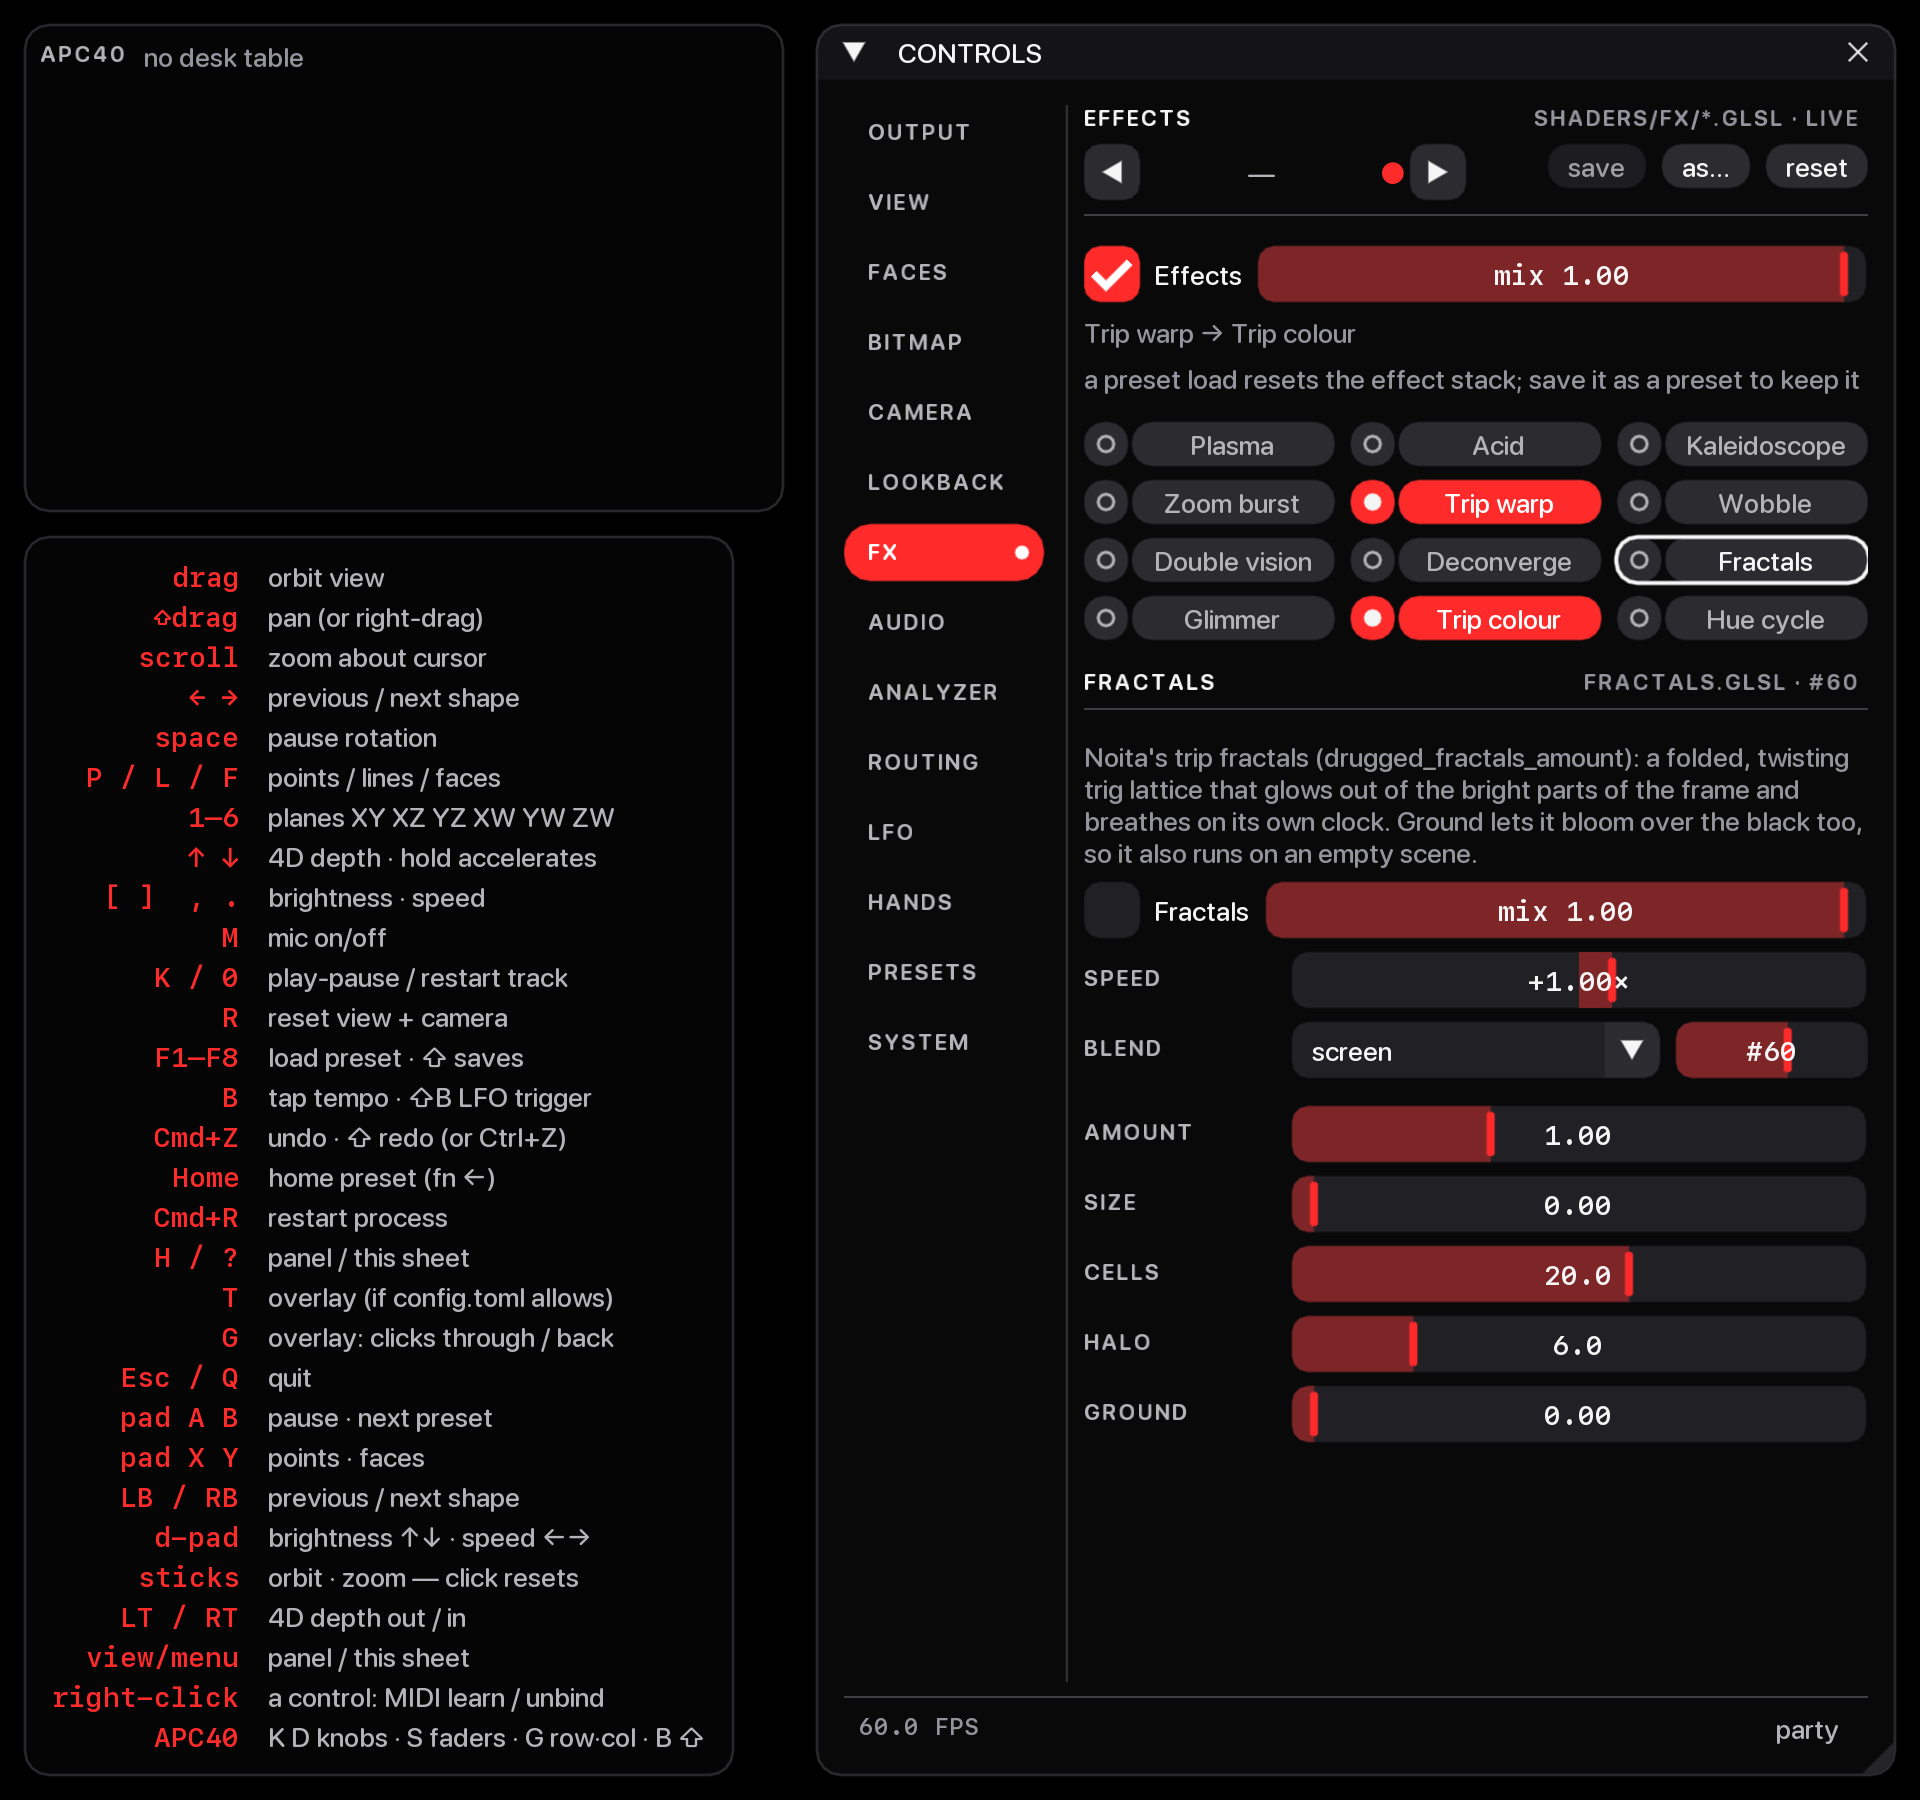
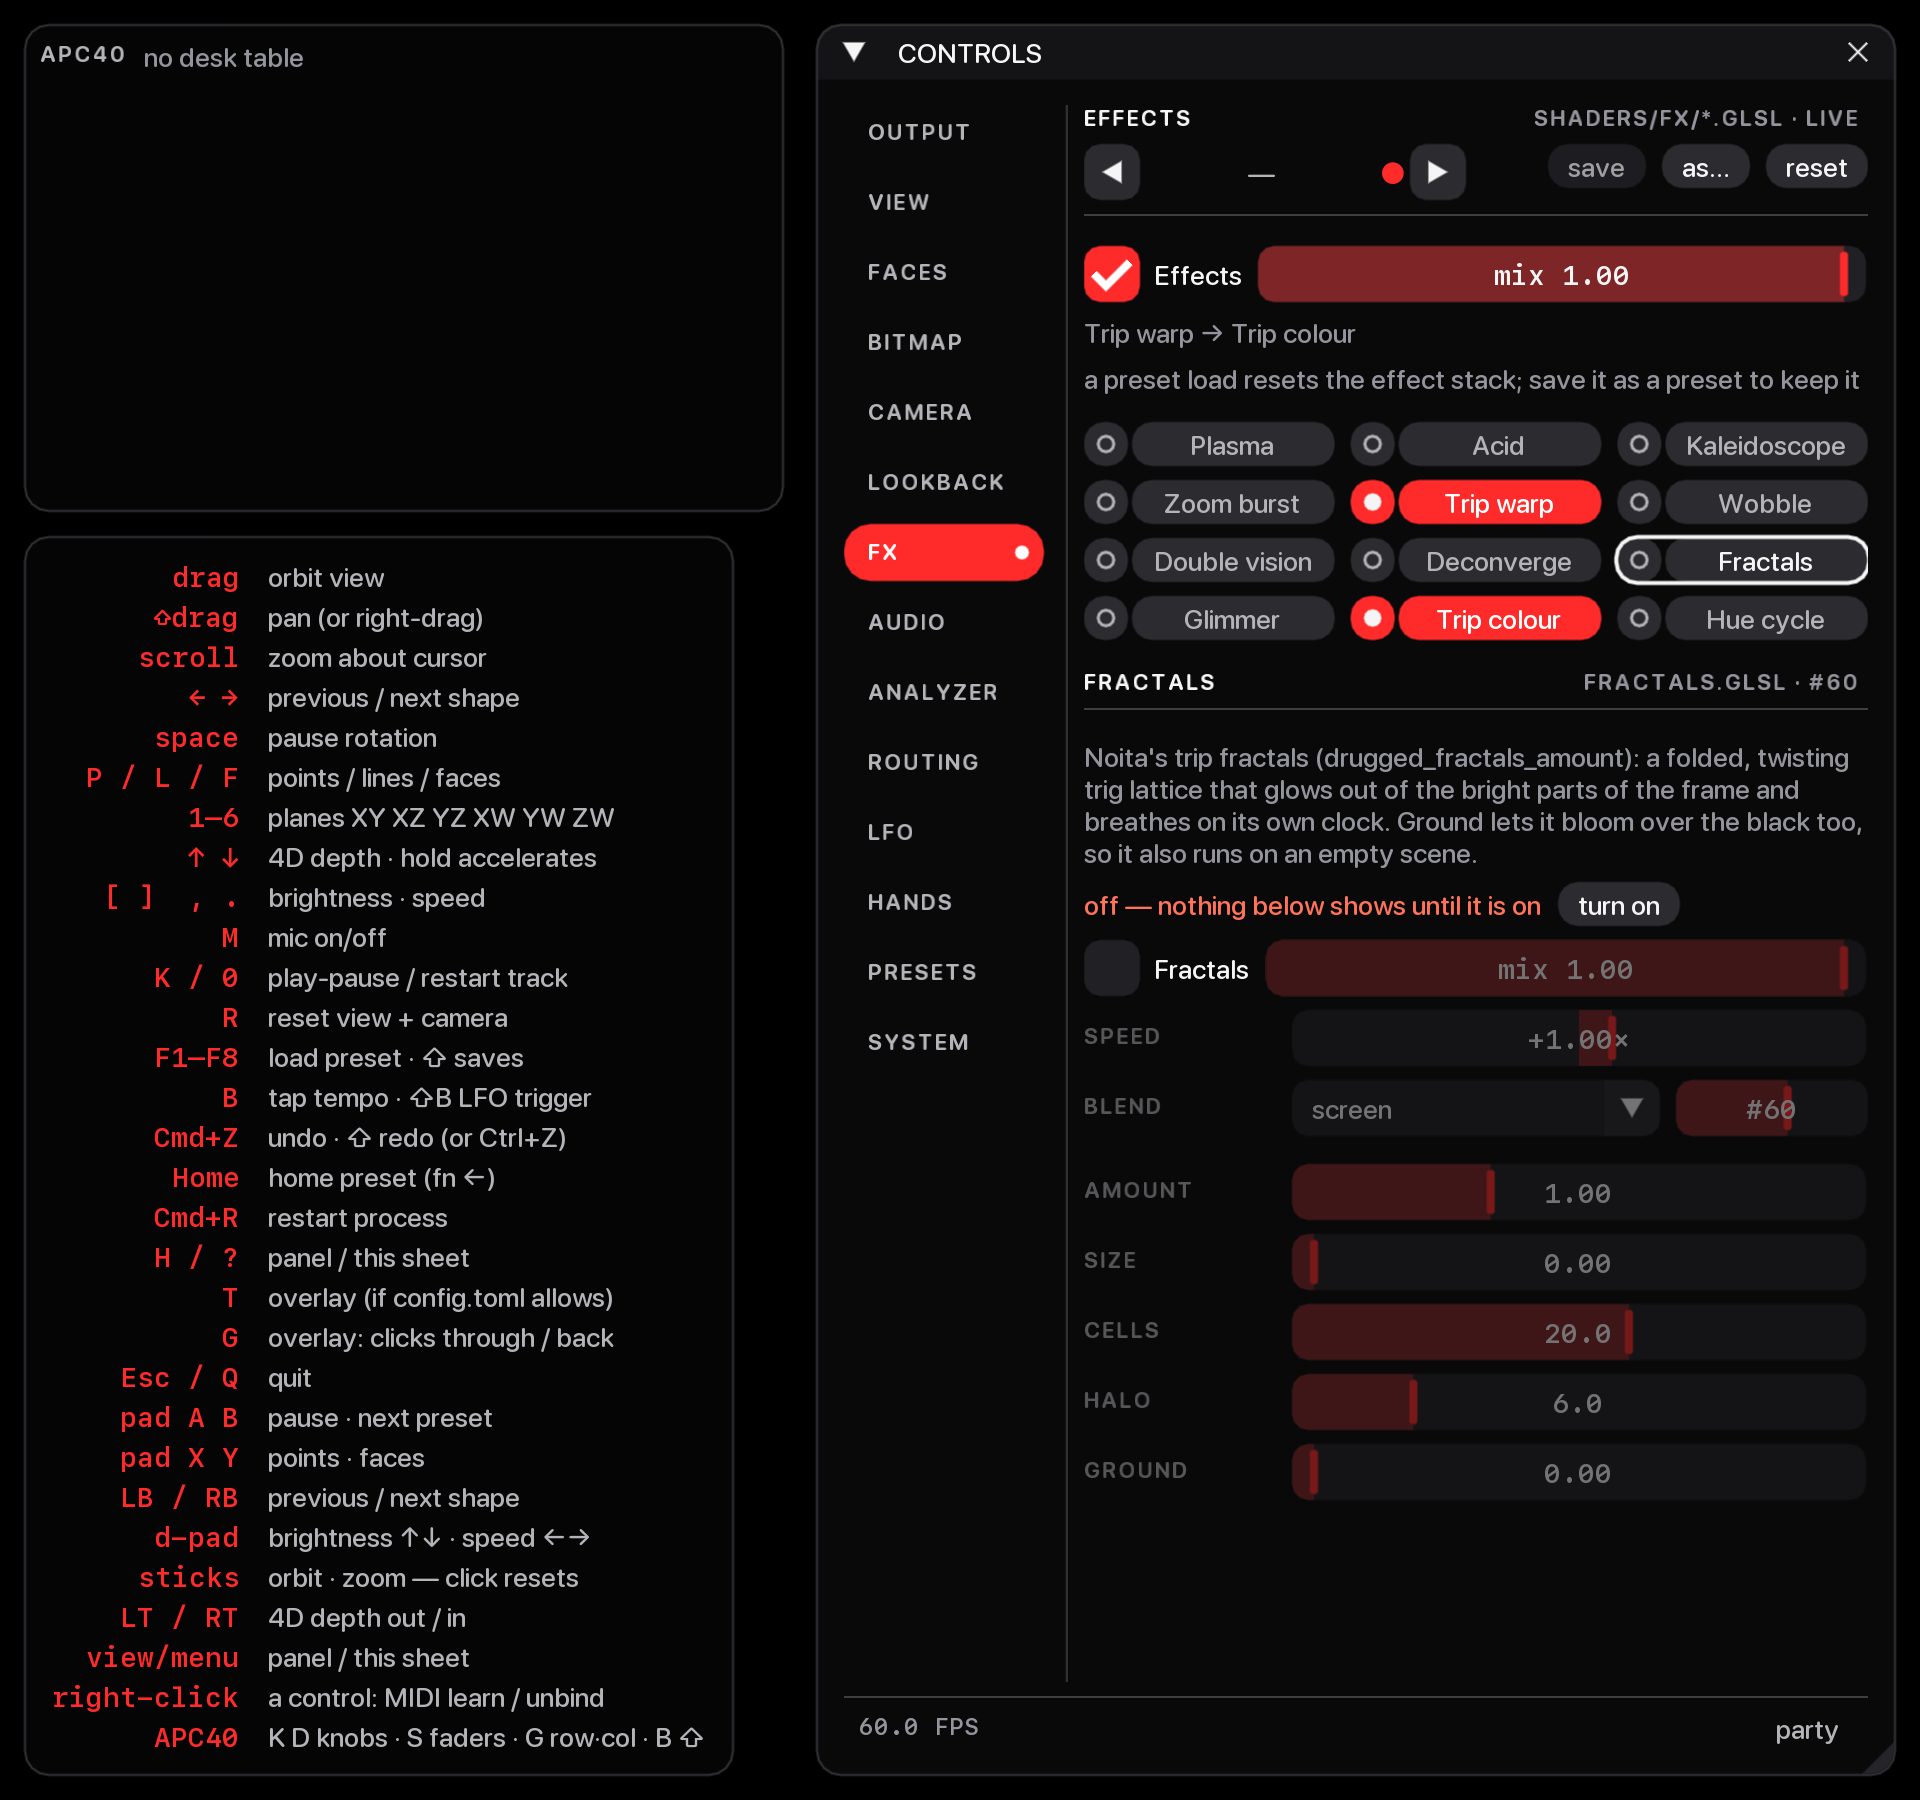
Plan 16 WP3: the idle strip as a picture (fx-idle.png); fx-chips.png redrawn with the line
Claude-Session: https://claude.ai/code/session_01Hj4u4h4MoQigGjJMCKHS42

Changed region(s): [[0.5625, 0.4667, 0.9688, 0.84]]

diff --git a/hyperspace-python/tools/fx_page_demo.py b/hyperspace-python/tools/fx_page_demo.py
@@ -12,7 +12,9 @@ window, no MIDI port, no audio device.
 Both land in docs/plans/assets/16-paper-cuts/. The transcript opens an
 effect by name, moves it and another through the stack, and loads
 presets with different orders: the same effect stays open throughout.
-The shot is the FX page with one effect on and another open but off.
+The shots are the FX page with two effects on and another open but off
+(fx-chips.png), and an off effect's strip saying why it is not running
+(fx-idle.png, plan 16 WP3).
 """
 
 # undo_demo is imported before anything of hyperspace's, on purpose: it sets
@@ -120,6 +122,7 @@ def shots() -> None:
     from OpenGL import GL
     from PIL import Image
 
+    from hyperspace import ui_fx
     from hyperspace.app import CONTROL_SIZE
     from hyperspace.ui import PAGE_KEYS, Panel, apply_style, load_fonts
 
@@ -176,6 +179,11 @@ def shots() -> None:
     draw()
     shoot("fx-chips.png", f"on: {fx.chain()}, open: {fx.selected()} "
                           f"(on={fx.values['fractals']['on']})")
+    # plan 16 WP3: an open effect that is off says so, with "turn on" beside
+    # the line and its rows dimmed
+    fx.select("kaleido")
+    draw()
+    shoot("fx-idle.png", f"open: {fx.selected()}, why idle: {ui_fx.why_idle(fx, 'kaleido')}")
     impl.shutdown()
     glfw.terminate()
 
